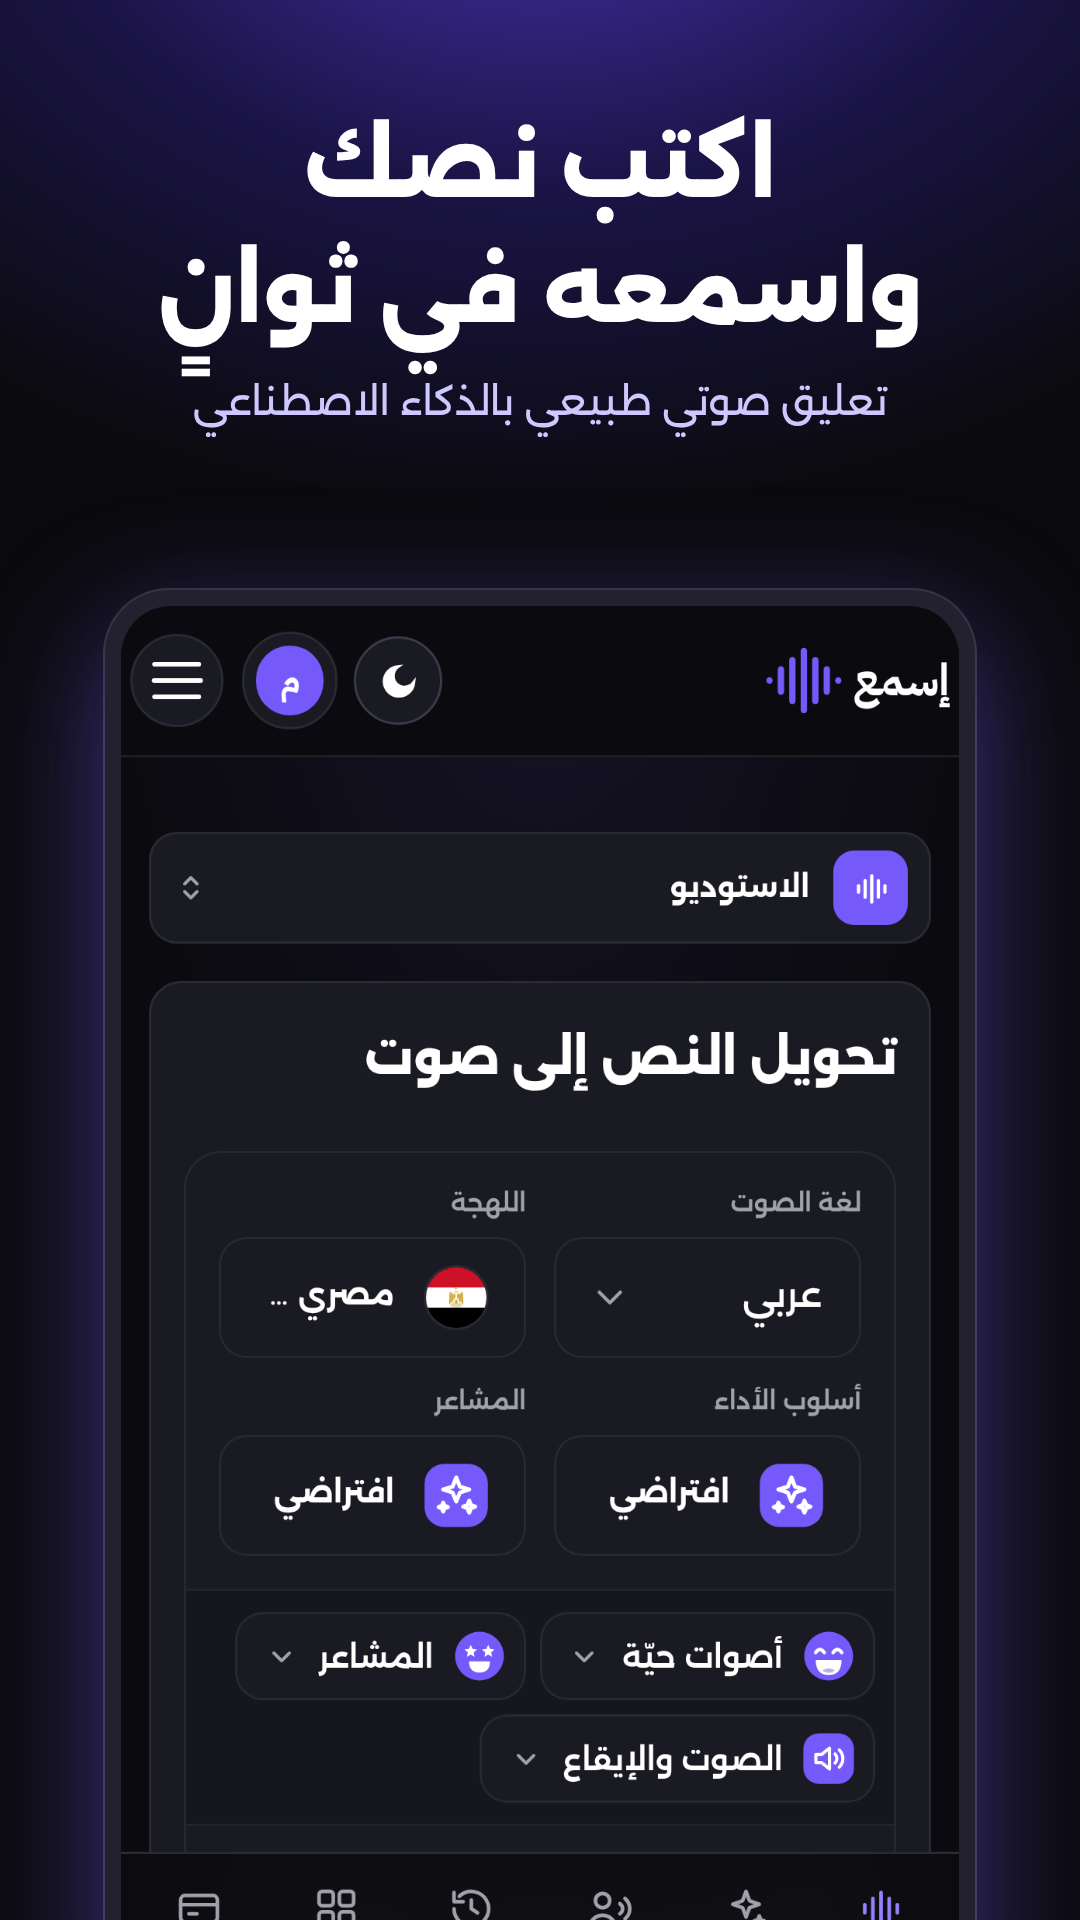
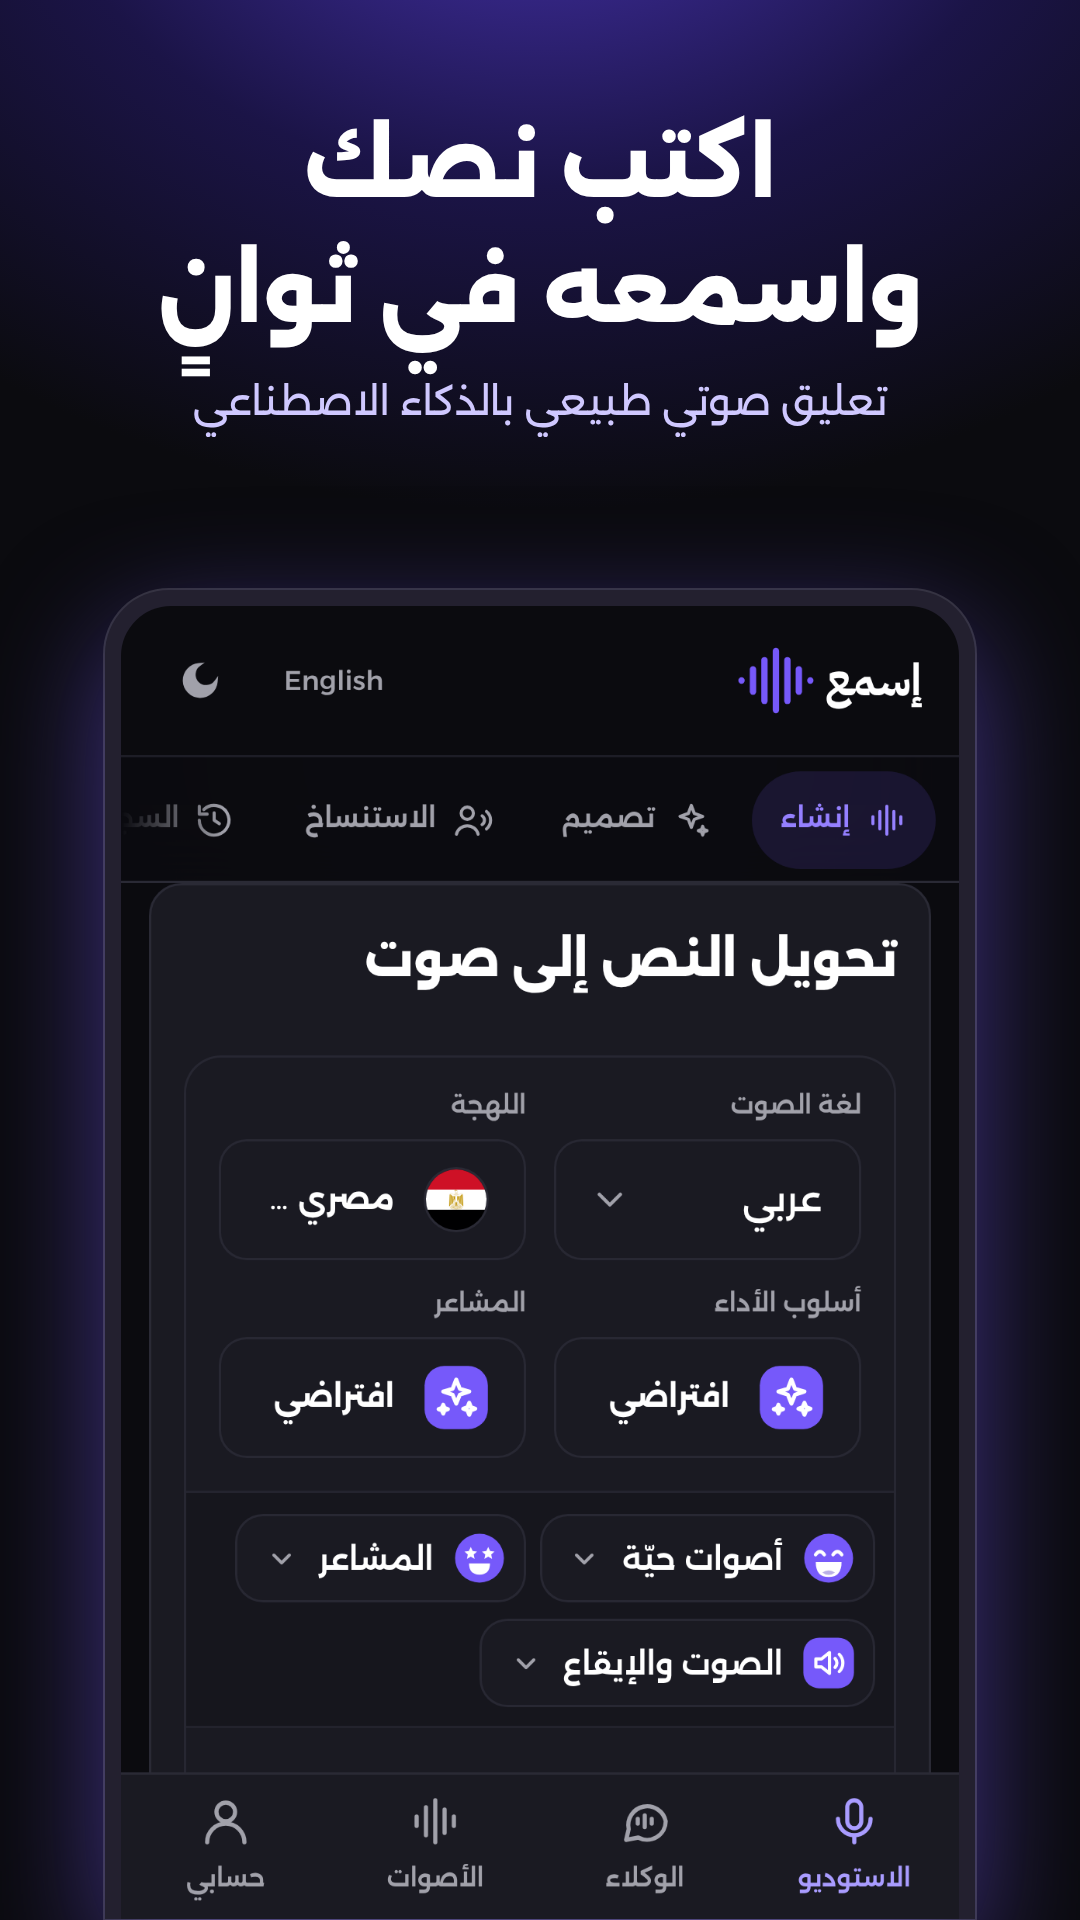
Play Store submission: screenshots of the app as it is now, privacy line for the phone app
The store screenshots still showed the website's menu inside the phone
frame. They are taken again from the pages as the app shows them today,
with its bar of tabs. The icon is saved as a 32-bit PNG, the format the
store asks for.

The privacy policy gains one line on the phone app: the notification
address kept when notifications are allowed and when it is removed, and
that the microphone is used only to record a voice or talk to an agent.

The submission guide adds the foreground service declaration Google asks
for (media playback: the text to paste and the short video to record)
and notes the Android version the app targets.

Claude-Session: https://claude.ai/code/session_01UnVKR1899agD5xicMbjeLp

diff --git a/tests/Feature/LegalPagesTest.php b/tests/Feature/LegalPagesTest.php
@@ -19,7 +19,10 @@ class LegalPagesTest extends TestCase
     public function test_the_privacy_policy_says_what_is_kept_and_where_it_goes(): void
     {
         $this->page('en', 'legal.privacy')
-            ->assertSee('Effective date: November 4, 2026')
+            ->assertSee('Effective date: November 10, 2026')
+            // The phone app: its notification address and its use of the microphone.
+            ->assertSee('In the Listen phone app: if you allow notifications')
+            ->assertSee('It is removed when you sign out of the app or turn its notifications off.')
             ->assertSee('if you call our assistant on our website while signed in, so our team knows who called')
             ->assertSee('with your name and email if that business&#039;s website says you are signed in to it', false)
             ->assertSee('The text you convert is kept with its audio in your history until you delete it.')
@@ -35,7 +38,8 @@ class LegalPagesTest extends TestCase
             ->assertDontSee('through your dashboard');
 
         $this->page('ar', 'legal.privacy')
-            ->assertSee('تاريخ السريان: 4 نوفمبر 2026')
+            ->assertSee('تاريخ السريان: 10 نوفمبر 2026')
+            ->assertSee('في تطبيق إسمع على الهاتف: إذا سمحت بالإشعارات')
             ->assertSee('إن اتصلت بمساعدنا على موقعنا وأنت مسجّل الدخول، ليعرف فريقنا من اتصل')
             ->assertSee('يُحفظ النص الذي تحوّله مع صوته في سجلك إلى أن تحذفه.')
             ->assertSee('يبقى الصوت الذي تنشئه في سجلك إلى أن تحذفه.')

diff --git a/lang/ar/ui.php b/lang/ar/ui.php
@@ -813,6 +813,7 @@ return [
             's1_12' => 'اسمك وبريدك مع مكالمتك، إن اتصلت بمساعدنا على موقعنا وأنت مسجّل الدخول، ليعرف فريقنا من اتصل',
             's1_13' => 'حين تتصل بوكيل صوتي لنشاط تجاري أُنشئ بإسمع، تُحفظ المكالمة لذلك النشاط، ومعها اسمك وبريدك إن أخبر موقعه أنك مسجّل الدخول فيه',
             's1_14' => 'ما تقوله في مكالمة مع وكيل صوتي، يُكتب من صوت كلماتك فور أن تقولها، ليظهر على الشاشة وفي سجل المكالمة كما قلته. ولا يُحفظ الصوت',
+            's1_15' => 'في تطبيق إسمع على الهاتف: إذا سمحت بالإشعارات، نحفظ عنوان إشعارات هاتفك لنخبرك عندما يجهز صوتك. ويُحذف عند تسجيل خروجك من التطبيق أو إيقاف إشعاراته. ويستخدم التطبيق الميكروفون فقط وأنت تسجّل صوتك أو تتحدث مع وكيل صوتي، ولا يعرض إعلانات',
             's2_title' => '2. كيف نستخدم معلوماتك',
             's2_1' => 'لتقديم خدمتنا والحفاظ عليها',
             's2_2' => 'لمعالجة مدفوعاتك وإدارة اشتراكك',

diff --git a/lang/en/ui.php b/lang/en/ui.php
@@ -814,6 +814,7 @@ return [
             's1_12' => 'Your name and email with your call, if you call our assistant on our website while signed in, so our team knows who called',
             's1_13' => 'When you call a business\'s voice agent made with Listen, the call is kept for that business, with your name and email if that business\'s website says you are signed in to it',
             's1_14' => 'What you say on a call with a voice agent, written down from the sound of your words right after you speak, so the line on the screen and in the call\'s record reads as you said it. The sound is not kept',
+            's1_15' => 'In the Listen phone app: if you allow notifications, an address for your phone\'s notifications, so we can tell you when a voice is ready. It is removed when you sign out of the app or turn its notifications off. The app uses the microphone only while you record your voice or talk to a voice agent, and it shows no ads',
             's2_title' => '2. How We Use Your Information',
             's2_1' => 'To provide and maintain our service',
             's2_2' => 'To process your payments and manage your subscription',

diff --git a/resources/views/legal/privacy.blade.php b/resources/views/legal/privacy.blade.php
@@ -82,7 +82,7 @@
 
   <main class="container legal-page">
     @php
-      $effectiveDate = app()->getLocale() === 'ar' ? '4 نوفمبر 2026' : 'November 4, 2026';
+      $effectiveDate = app()->getLocale() === 'ar' ? '10 نوفمبر 2026' : 'November 10, 2026';
       $contactEmail = trim((string) \App\Models\SiteSetting::get('contact_email', '')) ?: 'help@listenai.studio';
       $supportEmailLink = '<a href="mailto:'.e($contactEmail).'">'.e($contactEmail).'</a>';
     @endphp
@@ -109,6 +109,7 @@
           <li>{{ __('ui.legal.privacy.s1_12') }}</li>
           <li>{{ __('ui.legal.privacy.s1_13') }}</li>
           <li>{{ __('ui.legal.privacy.s1_14') }}</li>
+          <li>{{ __('ui.legal.privacy.s1_15') }}</li>
         </ul>
       </section>
 

diff --git a/mobile/README.md b/mobile/README.md
@@ -228,13 +228,16 @@ Privacy: https://listenai.studio/en/privacy-policy
 - Category: **Productivity**. Tags: text to speech, voice.
 - Contact email: the support address the site already shows. Website: `https://listenai.studio`.
 - Graphics: they are ready in `mobile/store/`. Upload them as they are:
-  - `icon-512.png`: the app icon (512×512).
+  - `icon-512.png`: the app icon (512×512, a 32-bit PNG as Google asks).
   - `feature-ar-1024x500.png` and `feature-en-1024x500.png`: the feature graphic for each language.
   - `phone-ar-1…8.png` and `phone-en-1…8.png`: eight phone screenshots (1080×1920) for each
     language, in this order: the studio, Arabic dialects, English accents, emotions, voice
     cloning, voice design, voice agents, voices in more languages. (Video dubbing is not
     public on the live site, so it is not in the images or the listing text; add it when it is.) They are made from the real
-    pages and show no price. Screen 8 shows the French, Spanish, German and other voices of
+    pages as the app shows them (its bar of tabs at the bottom, no website menu) and show no price. The Arabic dialects
+    screen is the Arabic voices page and the two English voices screens are the English one, in both listings, because
+    each page lists its own language's voices. Take them again whenever the app's look changes: the store asks that
+    screenshots show the app as it is. Screen 8 shows the French, Spanish, German and other voices of
     the samples page: leave it out if members cannot generate in those languages yet.
 
 ---
@@ -294,8 +297,22 @@ Communication or Other**):
   account. Create an ordinary member account for Google's reviewers on a paid plan (so they
   can open the studio), and give its email and password here. Without it the review fails.
 - Target audience: **18 and over**.
+- Target Android version: the app targets Android 16 (API level 36), which is what Google
+  Play asks of new apps since 31 August 2026. Nothing to enter; the upload is checked for it.
 - News app: No. Health: none. Financial features: none. Government: No.
 - Advertising ID: **No** (the permission is removed from the app).
+- Foreground service permissions (Google asks because the app keeps audio playing with the
+  screen off). Type: **Media playback**. It asks for a description and a link to a short
+  video:
+  - Description: `Listen plays the voice-overs a member makes. When the member presses play
+    and then locks the screen or leaves the app, a media playback service keeps that audio
+    playing and shows play, pause and seek controls in the notification and on the lock
+    screen. It starts only when the member presses play and stops when the audio ends or is
+    paused.`
+  - Video: record your phone's screen for 20 to 30 seconds: open the app, open History,
+    press play on a voice, pull down the notification shade to show the player, lock the
+    phone and show the audio still playing on the lock screen. Upload it to YouTube as
+    **Unlisted** (or to Google Drive with "anyone with the link") and paste the link.
 - AI-generated content: the app makes speech with AI. Google asks such apps for a way to
   report content. Answer that reports go through the in-app "Help and contact" page
   (`https://listenai.studio/en/contact-us`), and that the service blocks abusive wording.
